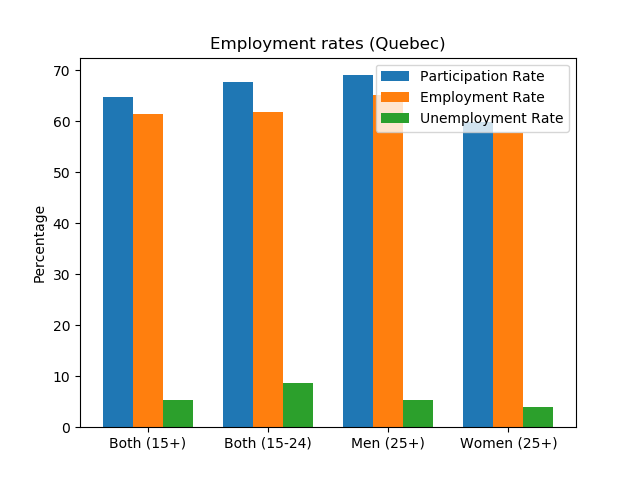
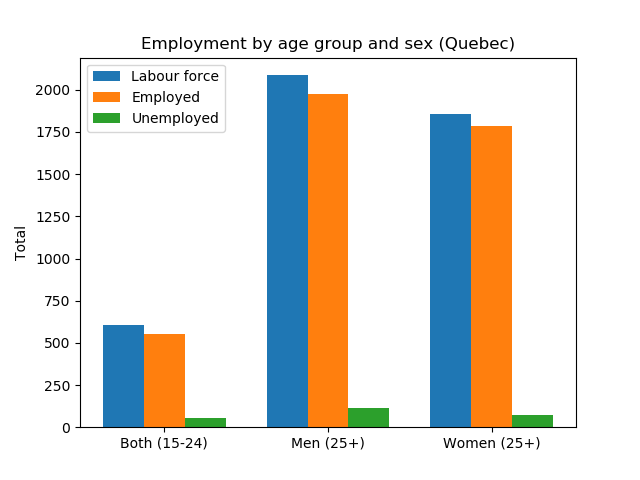
Committing final plots

diff --git a/visualize_data.py b/visualize_data.py
@@ -27,49 +27,59 @@ def savePieChart(data, file, filePath):
     plt.title('Employment by industry ({})'.format(file[:-4]))
     fig.legend(labels=labels, loc='upper left', prop={'size': 6})
     plt.show()
-    fig.figure.savefig(filePath)
+    # fig.figure.savefig(filePath)
 
 
 # Create and save a bar chart
 def saveBarChart(data, file, filePath):
     # Get the participation, employment, and unemployment rates from the data
-    participation_rate = data.loc['Participation rate', '19-Feb'].values
-    employment_rate = data.loc['Employment rate', '19-Feb'].values
-    unemployment_rate = data.loc['Unemployment rate', '19-Feb'].values
+    participation_rate = data.loc['Labour force', '19-Feb'].values[1:]
+    employment_rate = data.loc['Employment', '19-Feb'].values[1:]
+    unemployment_rate = data.loc['Unemployment', '19-Feb'].values[1:]
 
     # Plot a bar chart of the data
-    labels = ['Both (15+)', 'Both (15-24)', 'Men (25+)', 'Women (25+)']
+    labels = ['Both (15-24)', 'Men (25+)', 'Women (25+)']
     x = np.arange(len(labels))
     fig, ax = plt.subplots()
-    ax.bar(x - 0.25, participation_rate, 0.25, label='Participation Rate')
-    ax.bar(x, employment_rate, 0.25, label='Employment Rate')
-    ax.bar(x + 0.25, unemployment_rate, 0.25, label='Unemployment Rate')
+    ax.bar(x - 0.25, participation_rate, 0.25, label='Labour force')
+    ax.bar(x, employment_rate, 0.25, label='Employed')
+    ax.bar(x + 0.25, unemployment_rate, 0.25, label='Unemployed')
 
     # Add labels and save the chart
-    ax.set_ylabel('Percentage')
-    ax.set_title('Employment rates ({})'.format(file[:-4]))
+    ax.set_ylabel('Total')
+    ax.set_title('Employment by age group and sex ({})'.format(file[:-4]))
     ax.set_xticks(x)
     ax.set_xticklabels(labels)
-    ax.legend()
+    ax.legend(loc='upper left')
     plt.show()
-    ax.figure.savefig(filePath)
+    # ax.figure.savefig(filePath)
 
 
 ############## Visualize Employment Data by industry ##############
-# subdir = "Employment Data/By industry/"
-# for _, _, files in os.walk(subdir):
-#     for file in files:
-#         # Read each file, and create a pie chart
-#         data = pd.read_csv(subdir + file, index_col=0)
-#         savePieChart(data, file, 'Plots/By industry/' + file[:-4])
+subdir = "Employment Data/By industry/"
+for _, _, files in os.walk(subdir):
+    for file in files:
+        # Read each file, and create a pie chart
+        data = pd.read_csv(subdir + file, index_col=0)
+        savePieChart(data, file, 'Plots/By industry/' + file[:-4])
 ###################################################################
 
 
-########## Visualize Employment Data by age group and sex ##########
-# subdir = "Employment Data/By age group and sex/"
-# for _, _, files in os.walk(subdir):
-#     for file in files:
-#         # Read each file, and create a pie chart
-#         data = pd.read_csv(subdir + file, index_col=0)
-#         saveBarChart(data, file, 'Plots/By age group and sex/' + file[:-4])
+######### Visualize Employment Data by age group and sex ##########
+subdir = "Employment Data/By age group and sex/"
+for _, _, files in os.walk(subdir):
+    for file in files:
+        # Read each file, and create a bar chart
+        data = pd.read_csv(subdir + file, index_col=0)
+        saveBarChart(data, file, 'Plots/By age group and sex/' + file[:-4])
+###################################################################
+
+
+##################### Visualize provided data #####################
+data = pd.read_csv("Employment Data/job_skills.csv", index_col=0)
+fig = plt.figure(figsize=(8,6))
+ax = data.groupby('Company').Category.count().sort_values().plot.barh(title='Job data by company')
+plt.xlabel('Number of samples')
+plt.show()
+# ax.figure.savefig('Plots/job_data')
 ###################################################################

diff --git a/predictions.py b/predictions.py
@@ -1,0 +1,9 @@
+from sklearn.feature_extraction.text import TfidfVectorizer
+from sklearn.metrics.pairwise import cosine_similarity
+
+
+data = pd.read_csv("Employment Data/job_skills.csv", index_col=0)
+print(data.head(0))
+# data.fillna('', inplace=True)
+# vectorizer = TfidfVectorizer(stop_words='english', max_df=0.95, strip_accents='ascii', lowercase=True)
+# X = vectorizer.fit_transform(data.loc[:,'Responsibilities'].values)
